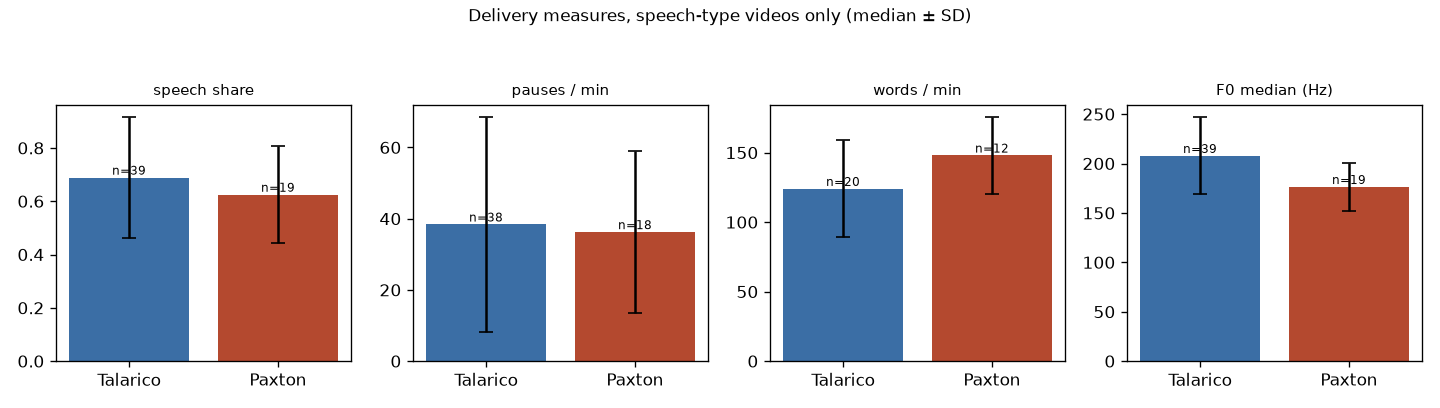
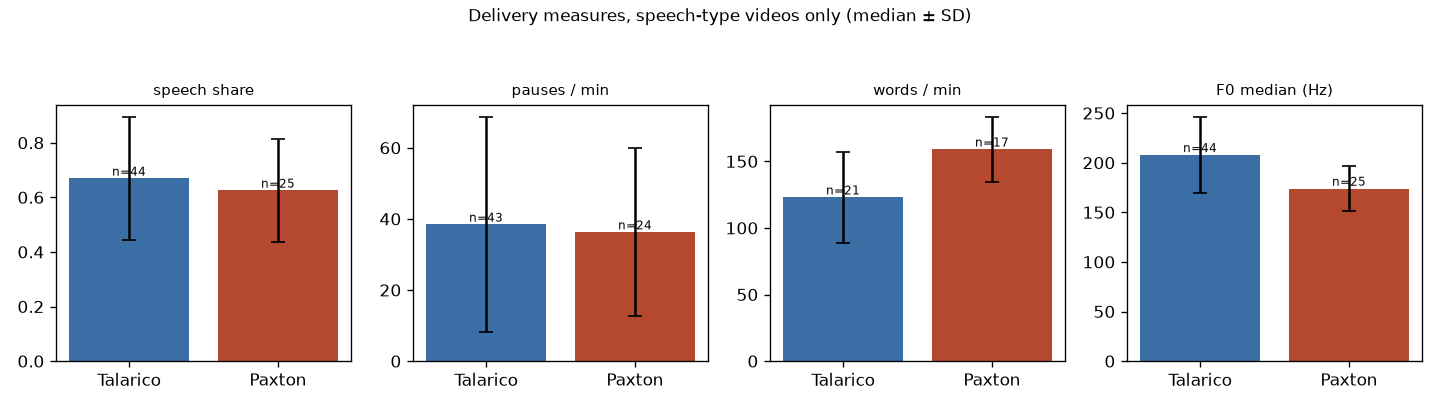
Unify speech-delivery comparison set and fix audio-page title lookup
Candidate medians now use every speech-type kind (44 Talarico / 25 Paxton rows), so the 11_speech_audio README, the site table and the three analysis files quote the same numbers. Rhetoric counters are restricted to captioned speeches (uncaptioned rows carried zeros and dragged the medians to 0).

diff --git a/texas-senate-2026/site/audio/index.html b/texas-senate-2026/site/audio/index.html
@@ -113,7 +113,7 @@ a.ext::after{content:" ↗";font-size:.8em;opacity:.65}
   <main>
     <div class="crumb"><a href="../index.html">首页</a> › <a href="../audio/index.html">音频</a></div>
     <h1>Speech audio &amp; delivery<span class="zh">演讲音频与交付分析</span></h1>
-    <div class="hero"><p>把 145 段视频的音轨全部抽出来测量：说话占比、停顿结构、响度动态、基频与语速。它的用途是让「交付方式」从 <code>unknown</code> 变成有数的记录，<b>而不是</b>给两位候选人的「气质」下判断。</p></div><div class="stats"><div class="stat"><b>145</b><span>已测量视频</span></div><div class="stat"><b>94</b><span>演讲类视频</span></div><div class="stat"><b>37.2</b><span>演讲音频小时</span></div><div class="stat"><b>78</b><span>逐字稿</span></div><div class="stat"><b>2542</b><span>60 秒分段</span></div></div><h2>候选人间（仅演讲类，中位数）</h2><div class="table-wrap"><table><thead><tr><th>指标</th><th>塔拉里科</th><th>帕克斯顿</th></tr></thead><tbody><tr><td>说话占比</td><td>0.67</td><td>0.62</td></tr><tr><td>每分钟停顿（≥0.25 s）</td><td>38.7</td><td>37.0</td></tr><tr><td>平均停顿（秒）</td><td>0.84</td><td>0.88</td></tr><tr><td>语速（词/分钟）</td><td>123</td><td>159</td></tr><tr><td>F0 中位数（Hz，指示值）</td><td>207.8</td><td>173.9</td></tr><tr><td>音域（半音）</td><td>13.5</td><td>14.0</td></tr><tr><td>响度标准差（dB）</td><td>7.4</td><td>6.9</td></tr></tbody></table></div><div class="gal"><figure><img src="../../11_speech_audio/fig_delivery_comparison.png" alt="delivery comparison"><figcaption><b>四项交付指标对比</b>中位数 ± 标准差，仅演讲类视频</figcaption></figure><figure><img src="../../11_speech_audio/fig_pacing.png" alt="pacing scatter"><figcaption><b>语速 vs 停顿率</b>气泡大小＝视频长度</figcaption></figure></div><div class="cards"><a class="card" href="data.html"><h3>交付数据集</h3><p>逐视频指标 + 60 秒分段。</p></a><a class="card" href="transcripts.html"><h3>逐字稿（78）</h3><p>带时间码的字幕文本，可回查。</p></a><a class="card" href="method.html"><h3>方法与局限</h3><p>VAD、F0、字幕口径与不可断言清单。</p></a></div><h2>最长的演讲类视频</h2><div class="table-wrap"><table><thead><tr><th>slug</th><th>kind</th><th>duration s</th><th>wpm</th><th>pauses/min</th><th>title</th></tr></thead><tbody><tr><td>TAL_austin_victory_cbs</td><td style="text-align:right">victory_speech</td><td style="text-align:right">6877</td><td style="text-align:right">44.0</td><td style="text-align:right">11.61</td><td>TAL_austin_victory_cbs</td></tr><tr><td>TAL_tx_victory_jtc</td><td style="text-align:right">victory_speech</td><td style="text-align:right">6654</td><td style="text-align:right">—</td><td style="text-align:right">67.0</td><td>TAL_tx_victory_jtc</td></tr><tr><td>TAL_austin_rally_cbs</td><td style="text-align:right">rally_speech</td><td style="text-align:right">6023</td><td style="text-align:right">103.0</td><td style="text-align:right">38.38</td><td>TAL_austin_rally_cbs</td></tr><tr><td>TAL_tx_rally_jtc2</td><td style="text-align:right">rally_speech</td><td style="text-align:right">5807</td><td style="text-align:right">189.0</td><td style="text-align:right">30.98</td><td>TAL_tx_rally_jtc2</td></tr><tr><td>TAL_tx_townhall_cnn</td><td style="text-align:right">town_hall</td><td style="text-align:right">4998</td><td style="text-align:right">—</td><td style="text-align:right">27.21</td><td>TAL_tx_townhall_cnn</td></tr><tr><td>TAL_fort_worth_rally_fox4</td><td style="text-align:right">rally_speech</td><td style="text-align:right">4903</td><td style="text-align:right">—</td><td style="text-align:right">77.08</td><td>TAL_fort_worth_rally_fox4</td></tr><tr><td>TAL_houston_rally_fox26</td><td style="text-align:right">rally_speech</td><td style="text-align:right">4892</td><td style="text-align:right">—</td><td style="text-align:right">77.17</td><td>TAL_houston_rally_fox26</td></tr><tr><td>TAL_dallas_rally_web</td><td style="text-align:right">rally_speech</td><td style="text-align:right">4887</td><td style="text-align:right">—</td><td style="text-align:right">76.75</td><td>TAL_dallas_rally_web</td></tr><tr><td>TAL_tyler_tour_cbs19</td><td style="text-align:right">tour_launch</td><td style="text-align:right">4176</td><td style="text-align:right">120.0</td><td style="text-align:right">27.34</td><td>TAL_tyler_tour_cbs19</td></tr><tr><td>TAL_san_marcos_rally_web</td><td style="text-align:right">rally_speech</td><td style="text-align:right">3800</td><td style="text-align:right">—</td><td style="text-align:right">56.93</td><td>TAL_san_marcos_rally_web</td></tr><tr><td>TAL_el_paso_tour_web2</td><td style="text-align:right">tour_launch</td><td style="text-align:right">3796</td><td style="text-align:right">—</td><td style="text-align:right">85.85</td><td>TAL_el_paso_tour_web2</td></tr><tr><td>TAL_fort_worth_rally_fox42</td><td style="text-align:right">rally_speech</td><td style="text-align:right">3795</td><td style="text-align:right">—</td><td style="text-align:right">56.46</td><td>TAL_fort_worth_rally_fox42</td></tr><tr><td>TAL_san_marcos_rally_fox26</td><td style="text-align:right">rally_speech</td><td style="text-align:right">3795</td><td style="text-align:right">—</td><td style="text-align:right">56.6</td><td>TAL_san_marcos_rally_fox26</td></tr><tr><td>TAL_tx_townhall_cnn2</td><td style="text-align:right">town_hall</td><td style="text-align:right">3428</td><td style="text-align:right">—</td><td style="text-align:right">37.41</td><td>TAL_tx_townhall_cnn2</td></tr></tbody></table></div><h2>波形与基频轨迹（前 24 段）</h2><div class="gal"><figure><a href="../../11_speech_audio/plots/BOTH_el_paso_rally_web.png" target="_blank"><img src="../../11_speech_audio/plots/BOTH_el_paso_rally_web.png" alt="BOTH_el_paso_rally_web" loading="lazy"></a><figcaption><b>BOTH_el_paso_rally_web</b></figcaption></figure><figure><a href="../../11_speech_audio/plots/BOTH_fort_worth_rally_fox4.png" target="_blank"><img src="../../11_speech_audio/plots/BOTH_fort_worth_rally_fox4.png" alt="BOTH_fort_worth_rally_fox4" loading="lazy"></a><figcaption><b>BOTH_fort_worth_rally_fox4</b></figcaption></figure><figure><a href="../../11_speech_audio/plots/BOTH_houston_rally_fox26.png" target="_blank"><img src="../../11_speech_audio/plots/BOTH_houston_rally_fox26.png" alt="BOTH_houston_rally_fox26" loading="lazy"></a><figcaption><b>BOTH_houston_rally_fox26</b></figcaption></figure><figure><a href="../../11_speech_audio/plots/BOTH_san_antonio_convention_kens.png" target="_blank"><img src="../../11_speech_audio/plots/BOTH_san_antonio_convention_kens.png" alt="BOTH_san_antonio_convention_kens" loading="lazy"></a><figcaption><b>BOTH_san_antonio_convention_kens</b></figcaption></figure><figure><a href="../../11_speech_audio/plots/BOTH_tx_concession_cbs19.png" target="_blank"><img src="../../11_speech_audio/plots/BOTH_tx_concession_cbs19.png" alt="BOTH_tx_concession_cbs19" loading="lazy"></a><figcaption><b>BOTH_tx_concession_cbs19</b></figcaption></figure><figure><a href="../../11_speech_audio/plots/BOTH_tx_concession_kvue.png" target="_blank"><img src="../../11_speech_audio/plots/BOTH_tx_concession_kvue.png" alt="BOTH_tx_concession_kvue" loading="lazy"></a><figcaption><b>BOTH_tx_concession_kvue</b></figcaption></figure><figure><a href="../../11_speech_audio/plots/BOTH_tx_concession_web.png" target="_blank"><img src="../../11_speech_audio/plots/BOTH_tx_concession_web.png" alt="BOTH_tx_concession_web" loading="lazy"></a><figcaption><b>BOTH_tx_concession_web</b></figcaption></figure><figure><a href="../../11_speech_audio/plots/BOTH_tx_concession_web2.png" target="_blank"><img src="../../11_speech_audio/plots/BOTH_tx_concession_web2.png" alt="BOTH_tx_concession_web2" loading="lazy"></a><figcaption><b>BOTH_tx_concession_web2</b></figcaption></figure><figure><a href="../../11_speech_audio/plots/BOTH_tx_concession_web3.png" target="_blank"><img src="../../11_speech_audio/plots/BOTH_tx_concession_web3.png" alt="BOTH_tx_concession_web3" loading="lazy"></a><figcaption><b>BOTH_tx_concession_web3</b></figcaption></figure><figure><a href="../../11_speech_audio/plots/BOTH_tx_convention_usat.png" target="_blank"><img src="../../11_speech_audio/plots/BOTH_tx_convention_usat.png" alt="BOTH_tx_convention_usat" loading="lazy"></a><figcaption><b>BOTH_tx_convention_usat</b></figcaption></figure><figure><a href="../../11_speech_audio/plots/BOTH_tx_debate_cbs192.png" target="_blank"><img src="../../11_speech_audio/plots/BOTH_tx_debate_cbs192.png" alt="BOTH_tx_debate_cbs192" loading="lazy"></a><figcaption><b>BOTH_tx_debate_cbs192</b></figcaption></figure><figure><a href="../../11_speech_audio/plots/BOTH_tx_debate_cbs193.png" target="_blank"><img src="../../11_speech_audio/plots/BOTH_tx_debate_cbs193.png" alt="BOTH_tx_debate_cbs193" loading="lazy"></a><figcaption><b>BOTH_tx_debate_cbs193</b></figcaption></figure><figure><a href="../../11_speech_audio/plots/BOTH_tx_debate_web.png" target="_blank"><img src="../../11_speech_audio/plots/BOTH_tx_debate_web.png" alt="BOTH_tx_debate_web" loading="lazy"></a><figcaption><b>BOTH_tx_debate_web</b></figcaption></figure><figure><a href="../../11_speech_audio/plots/BOTH_tx_final_wfaa.png" target="_blank"><img src="../../11_speech_audio/plots/BOTH_tx_final_wfaa.png" alt="BOTH_tx_final_wfaa" loading="lazy"></a><figcaption><b>BOTH_tx_final_wfaa</b></figcaption></figure><figure><a href="../../11_speech_audio/plots/BOTH_tx_interview_cbs.png" target="_blank"><img src="../../11_speech_audio/plots/BOTH_tx_interview_cbs.png" alt="BOTH_tx_interview_cbs" loading="lazy"></a><figcaption><b>BOTH_tx_interview_cbs</b></figcaption></figure><figure><a href="../../11_speech_audio/plots/BOTH_tx_interview_cbs2.png" target="_blank"><img src="../../11_speech_audio/plots/BOTH_tx_interview_cbs2.png" alt="BOTH_tx_interview_cbs2" loading="lazy"></a><figcaption><b>BOTH_tx_interview_cbs2</b></figcaption></figure><figure><a href="../../11_speech_audio/plots/BOTH_tx_interview_web.png" target="_blank"><img src="../../11_speech_audio/plots/BOTH_tx_interview_web.png" alt="BOTH_tx_interview_web" loading="lazy"></a><figcaption><b>BOTH_tx_interview_web</b></figcaption></figure><figure><a href="../../11_speech_audio/plots/BOTH_tx_interview_web2.png" target="_blank"><img src="../../11_speech_audio/plots/BOTH_tx_interview_web2.png" alt="BOTH_tx_interview_web2" loading="lazy"></a><figcaption><b>BOTH_tx_interview_web2</b></figcaption></figure><figure><a href="../../11_speech_audio/plots/BOTH_tx_interview_web3.png" target="_blank"><img src="../../11_speech_audio/plots/BOTH_tx_interview_web3.png" alt="BOTH_tx_interview_web3" loading="lazy"></a><figcaption><b>BOTH_tx_interview_web3</b></figcaption></figure><figure><a href="../../11_speech_audio/plots/BOTH_tx_rally_cbs19.png" target="_blank"><img src="../../11_speech_audio/plots/BOTH_tx_rally_cbs19.png" alt="BOTH_tx_rally_cbs19" loading="lazy"></a><figcaption><b>BOTH_tx_rally_cbs19</b></figcaption></figure><figure><a href="../../11_speech_audio/plots/BOTH_tx_rally_foxn.png" target="_blank"><img src="../../11_speech_audio/plots/BOTH_tx_rally_foxn.png" alt="BOTH_tx_rally_foxn" loading="lazy"></a><figcaption><b>BOTH_tx_rally_foxn</b></figcaption></figure><figure><a href="../../11_speech_audio/plots/BOTH_tx_rally_usat.png" target="_blank"><img src="../../11_speech_audio/plots/BOTH_tx_rally_usat.png" alt="BOTH_tx_rally_usat" loading="lazy"></a><figcaption><b>BOTH_tx_rally_usat</b></figcaption></figure><figure><a href="../../11_speech_audio/plots/BOTH_tx_rally_web.png" target="_blank"><img src="../../11_speech_audio/plots/BOTH_tx_rally_web.png" alt="BOTH_tx_rally_web" loading="lazy"></a><figcaption><b>BOTH_tx_rally_web</b></figcaption></figure><figure><a href="../../11_speech_audio/plots/BOTH_tx_rally_web2.png" target="_blank"><img src="../../11_speech_audio/plots/BOTH_tx_rally_web2.png" alt="BOTH_tx_rally_web2" loading="lazy"></a><figcaption><b>BOTH_tx_rally_web2</b></figcaption></figure></div>
+    <div class="hero"><p>把 145 段视频的音轨全部抽出来测量：说话占比、停顿结构、响度动态、基频与语速。它的用途是让「交付方式」从 <code>unknown</code> 变成有数的记录，<b>而不是</b>给两位候选人的「气质」下判断。</p></div><div class="stats"><div class="stat"><b>145</b><span>已测量视频</span></div><div class="stat"><b>94</b><span>演讲类视频</span></div><div class="stat"><b>37.2</b><span>演讲音频小时</span></div><div class="stat"><b>78</b><span>逐字稿</span></div><div class="stat"><b>2542</b><span>60 秒分段</span></div></div><h2>候选人间（仅演讲类，中位数）</h2><div class="table-wrap"><table><thead><tr><th>指标</th><th>塔拉里科</th><th>帕克斯顿</th></tr></thead><tbody><tr><td>说话占比</td><td>0.67</td><td>0.62</td></tr><tr><td>每分钟停顿（≥0.25 s）</td><td>38.7</td><td>37.0</td></tr><tr><td>平均停顿（秒）</td><td>0.84</td><td>0.88</td></tr><tr><td>语速（词/分钟）</td><td>123</td><td>159</td></tr><tr><td>F0 中位数（Hz，指示值）</td><td>207.8</td><td>173.9</td></tr><tr><td>音域（半音）</td><td>13.5</td><td>14.0</td></tr><tr><td>响度标准差（dB）</td><td>7.4</td><td>6.9</td></tr></tbody></table></div><div class="gal"><figure><img src="../../11_speech_audio/fig_delivery_comparison.png" alt="delivery comparison"><figcaption><b>四项交付指标对比</b>中位数 ± 标准差，仅演讲类视频</figcaption></figure><figure><img src="../../11_speech_audio/fig_pacing.png" alt="pacing scatter"><figcaption><b>语速 vs 停顿率</b>气泡大小＝视频长度</figcaption></figure></div><div class="cards"><a class="card" href="data.html"><h3>交付数据集</h3><p>逐视频指标 + 60 秒分段。</p></a><a class="card" href="transcripts.html"><h3>逐字稿（78）</h3><p>带时间码的字幕文本，可回查。</p></a><a class="card" href="method.html"><h3>方法与局限</h3><p>VAD、F0、字幕口径与不可断言清单。</p></a></div><h2>最长的演讲类视频</h2><div class="table-wrap"><table><thead><tr><th>slug</th><th>kind</th><th>duration s</th><th>wpm</th><th>pauses/min</th><th>title</th></tr></thead><tbody><tr><td>TAL_austin_victory_cbs</td><td style="text-align:right">victory_speech</td><td style="text-align:right">6877</td><td style="text-align:right">44.0</td><td style="text-align:right">11.61</td><td>WATCH LIVE: James Talarico speaks to supporters on election night</td></tr><tr><td>TAL_tx_victory_jtc</td><td style="text-align:right">victory_speech</td><td style="text-align:right">6654</td><td style="text-align:right">—</td><td style="text-align:right">67.0</td><td>Victory Party LIVE: James Talarico for US Senate</td></tr><tr><td>TAL_austin_rally_cbs</td><td style="text-align:right">rally_speech</td><td style="text-align:right">6023</td><td style="text-align:right">103.0</td><td style="text-align:right">38.38</td><td>WATCH: Rep. Talarico STOP ICE Rally</td></tr><tr><td>TAL_tx_rally_jtc2</td><td style="text-align:right">rally_speech</td><td style="text-align:right">5807</td><td style="text-align:right">189.0</td><td style="text-align:right">30.98</td><td>James Talarico: Here Is How They Designed The System To Keep You Poor!</td></tr><tr><td>TAL_tx_townhall_cnn</td><td style="text-align:right">town_hall</td><td style="text-align:right">4998</td><td style="text-align:right">—</td><td style="text-align:right">27.21</td><td>James Talarico Debates Texas Voters: Jubilee x CNN Townhall</td></tr><tr><td>TAL_fort_worth_rally_fox4</td><td style="text-align:right">rally_speech</td><td style="text-align:right">4903</td><td style="text-align:right">—</td><td style="text-align:right">77.08</td><td>LIVE: Talarico, Hinojosa rally in Dallas as Texas races tighten</td></tr><tr><td>TAL_houston_rally_fox26</td><td style="text-align:right">rally_speech</td><td style="text-align:right">4892</td><td style="text-align:right">—</td><td style="text-align:right">77.17</td><td>LIVE: Talarico, Hinojosa rally in Dallas as Texas races tighten</td></tr><tr><td>TAL_dallas_rally_web</td><td style="text-align:right">rally_speech</td><td style="text-align:right">4887</td><td style="text-align:right">—</td><td style="text-align:right">76.75</td><td>LIVE: Talarico, Hinojosa rally in Dallas as Texas races tighten</td></tr><tr><td>TAL_tyler_tour_cbs19</td><td style="text-align:right">tour_launch</td><td style="text-align:right">4176</td><td style="text-align:right">120.0</td><td style="text-align:right">27.34</td><td>WATCH LIVE: U.S. Senate candidate James Talarico makes campaign stop i</td></tr><tr><td>TAL_san_marcos_rally_web</td><td style="text-align:right">rally_speech</td><td style="text-align:right">3800</td><td style="text-align:right">—</td><td style="text-align:right">56.93</td><td>LIVE: James Talarico holds campaign rally in San Marcos</td></tr><tr><td>TAL_el_paso_tour_web2</td><td style="text-align:right">tour_launch</td><td style="text-align:right">3796</td><td style="text-align:right">—</td><td style="text-align:right">85.85</td><td>James Talarico "Clear Eyes Full Hears" campaign tour stop in El Paso</td></tr><tr><td>TAL_fort_worth_rally_fox42</td><td style="text-align:right">rally_speech</td><td style="text-align:right">3795</td><td style="text-align:right">—</td><td style="text-align:right">56.46</td><td>LIVE: James Talarico holds campaign rally in San Marcos</td></tr><tr><td>TAL_san_marcos_rally_fox26</td><td style="text-align:right">rally_speech</td><td style="text-align:right">3795</td><td style="text-align:right">—</td><td style="text-align:right">56.6</td><td>LIVE: James Talarico holds campaign rally in San Marcos</td></tr><tr><td>TAL_tx_townhall_cnn2</td><td style="text-align:right">town_hall</td><td style="text-align:right">3428</td><td style="text-align:right">—</td><td style="text-align:right">37.41</td><td>John Berman breaks down the CNN &amp; Jubilee Town Hall with James Talaric</td></tr></tbody></table></div><h2>波形与基频轨迹（前 24 段）</h2><div class="gal"><figure><a href="../../11_speech_audio/plots/BOTH_el_paso_rally_web.png" target="_blank"><img src="../../11_speech_audio/plots/BOTH_el_paso_rally_web.png" alt="BOTH_el_paso_rally_web" loading="lazy"></a><figcaption><b>BOTH_el_paso_rally_web</b></figcaption></figure><figure><a href="../../11_speech_audio/plots/BOTH_fort_worth_rally_fox4.png" target="_blank"><img src="../../11_speech_audio/plots/BOTH_fort_worth_rally_fox4.png" alt="BOTH_fort_worth_rally_fox4" loading="lazy"></a><figcaption><b>BOTH_fort_worth_rally_fox4</b></figcaption></figure><figure><a href="../../11_speech_audio/plots/BOTH_houston_rally_fox26.png" target="_blank"><img src="../../11_speech_audio/plots/BOTH_houston_rally_fox26.png" alt="BOTH_houston_rally_fox26" loading="lazy"></a><figcaption><b>BOTH_houston_rally_fox26</b></figcaption></figure><figure><a href="../../11_speech_audio/plots/BOTH_san_antonio_convention_kens.png" target="_blank"><img src="../../11_speech_audio/plots/BOTH_san_antonio_convention_kens.png" alt="BOTH_san_antonio_convention_kens" loading="lazy"></a><figcaption><b>BOTH_san_antonio_convention_kens</b></figcaption></figure><figure><a href="../../11_speech_audio/plots/BOTH_tx_concession_cbs19.png" target="_blank"><img src="../../11_speech_audio/plots/BOTH_tx_concession_cbs19.png" alt="BOTH_tx_concession_cbs19" loading="lazy"></a><figcaption><b>BOTH_tx_concession_cbs19</b></figcaption></figure><figure><a href="../../11_speech_audio/plots/BOTH_tx_concession_kvue.png" target="_blank"><img src="../../11_speech_audio/plots/BOTH_tx_concession_kvue.png" alt="BOTH_tx_concession_kvue" loading="lazy"></a><figcaption><b>BOTH_tx_concession_kvue</b></figcaption></figure><figure><a href="../../11_speech_audio/plots/BOTH_tx_concession_web.png" target="_blank"><img src="../../11_speech_audio/plots/BOTH_tx_concession_web.png" alt="BOTH_tx_concession_web" loading="lazy"></a><figcaption><b>BOTH_tx_concession_web</b></figcaption></figure><figure><a href="../../11_speech_audio/plots/BOTH_tx_concession_web2.png" target="_blank"><img src="../../11_speech_audio/plots/BOTH_tx_concession_web2.png" alt="BOTH_tx_concession_web2" loading="lazy"></a><figcaption><b>BOTH_tx_concession_web2</b></figcaption></figure><figure><a href="../../11_speech_audio/plots/BOTH_tx_concession_web3.png" target="_blank"><img src="../../11_speech_audio/plots/BOTH_tx_concession_web3.png" alt="BOTH_tx_concession_web3" loading="lazy"></a><figcaption><b>BOTH_tx_concession_web3</b></figcaption></figure><figure><a href="../../11_speech_audio/plots/BOTH_tx_convention_usat.png" target="_blank"><img src="../../11_speech_audio/plots/BOTH_tx_convention_usat.png" alt="BOTH_tx_convention_usat" loading="lazy"></a><figcaption><b>BOTH_tx_convention_usat</b></figcaption></figure><figure><a href="../../11_speech_audio/plots/BOTH_tx_debate_cbs192.png" target="_blank"><img src="../../11_speech_audio/plots/BOTH_tx_debate_cbs192.png" alt="BOTH_tx_debate_cbs192" loading="lazy"></a><figcaption><b>BOTH_tx_debate_cbs192</b></figcaption></figure><figure><a href="../../11_speech_audio/plots/BOTH_tx_debate_cbs193.png" target="_blank"><img src="../../11_speech_audio/plots/BOTH_tx_debate_cbs193.png" alt="BOTH_tx_debate_cbs193" loading="lazy"></a><figcaption><b>BOTH_tx_debate_cbs193</b></figcaption></figure><figure><a href="../../11_speech_audio/plots/BOTH_tx_debate_web.png" target="_blank"><img src="../../11_speech_audio/plots/BOTH_tx_debate_web.png" alt="BOTH_tx_debate_web" loading="lazy"></a><figcaption><b>BOTH_tx_debate_web</b></figcaption></figure><figure><a href="../../11_speech_audio/plots/BOTH_tx_final_wfaa.png" target="_blank"><img src="../../11_speech_audio/plots/BOTH_tx_final_wfaa.png" alt="BOTH_tx_final_wfaa" loading="lazy"></a><figcaption><b>BOTH_tx_final_wfaa</b></figcaption></figure><figure><a href="../../11_speech_audio/plots/BOTH_tx_interview_cbs.png" target="_blank"><img src="../../11_speech_audio/plots/BOTH_tx_interview_cbs.png" alt="BOTH_tx_interview_cbs" loading="lazy"></a><figcaption><b>BOTH_tx_interview_cbs</b></figcaption></figure><figure><a href="../../11_speech_audio/plots/BOTH_tx_interview_cbs2.png" target="_blank"><img src="../../11_speech_audio/plots/BOTH_tx_interview_cbs2.png" alt="BOTH_tx_interview_cbs2" loading="lazy"></a><figcaption><b>BOTH_tx_interview_cbs2</b></figcaption></figure><figure><a href="../../11_speech_audio/plots/BOTH_tx_interview_web.png" target="_blank"><img src="../../11_speech_audio/plots/BOTH_tx_interview_web.png" alt="BOTH_tx_interview_web" loading="lazy"></a><figcaption><b>BOTH_tx_interview_web</b></figcaption></figure><figure><a href="../../11_speech_audio/plots/BOTH_tx_interview_web2.png" target="_blank"><img src="../../11_speech_audio/plots/BOTH_tx_interview_web2.png" alt="BOTH_tx_interview_web2" loading="lazy"></a><figcaption><b>BOTH_tx_interview_web2</b></figcaption></figure><figure><a href="../../11_speech_audio/plots/BOTH_tx_interview_web3.png" target="_blank"><img src="../../11_speech_audio/plots/BOTH_tx_interview_web3.png" alt="BOTH_tx_interview_web3" loading="lazy"></a><figcaption><b>BOTH_tx_interview_web3</b></figcaption></figure><figure><a href="../../11_speech_audio/plots/BOTH_tx_rally_cbs19.png" target="_blank"><img src="../../11_speech_audio/plots/BOTH_tx_rally_cbs19.png" alt="BOTH_tx_rally_cbs19" loading="lazy"></a><figcaption><b>BOTH_tx_rally_cbs19</b></figcaption></figure><figure><a href="../../11_speech_audio/plots/BOTH_tx_rally_foxn.png" target="_blank"><img src="../../11_speech_audio/plots/BOTH_tx_rally_foxn.png" alt="BOTH_tx_rally_foxn" loading="lazy"></a><figcaption><b>BOTH_tx_rally_foxn</b></figcaption></figure><figure><a href="../../11_speech_audio/plots/BOTH_tx_rally_usat.png" target="_blank"><img src="../../11_speech_audio/plots/BOTH_tx_rally_usat.png" alt="BOTH_tx_rally_usat" loading="lazy"></a><figcaption><b>BOTH_tx_rally_usat</b></figcaption></figure><figure><a href="../../11_speech_audio/plots/BOTH_tx_rally_web.png" target="_blank"><img src="../../11_speech_audio/plots/BOTH_tx_rally_web.png" alt="BOTH_tx_rally_web" loading="lazy"></a><figcaption><b>BOTH_tx_rally_web</b></figcaption></figure><figure><a href="../../11_speech_audio/plots/BOTH_tx_rally_web2.png" target="_blank"><img src="../../11_speech_audio/plots/BOTH_tx_rally_web2.png" alt="BOTH_tx_rally_web2" loading="lazy"></a><figcaption><b>BOTH_tx_rally_web2</b></figcaption></figure></div>
     
   </main>
 </div>

diff --git a/texas-senate-2026/site/audio/method.html b/texas-senate-2026/site/audio/method.html
@@ -142,9 +142,9 @@ reporter narration.</p></div>
 <div class="blk mix"><div class="table-wrap"><table><thead><tr><th style="text-align:left">File</th><th style="text-align:left">Content</th></tr></thead><tbody><tr><td style="text-align:left"><code>delivery_metrics.csv</code></td><td style="text-align:left">one row per video: speech/silence, pauses, loudness, F0, centroid, caption-derived rate and rhetoric counters</td></tr><tr><td style="text-align:left"><code>speech_segments.csv</code></td><td style="text-align:left">60 s windows per video: speech ratio, loudness, F0, words, wpm — the pacing arc</td></tr><tr><td style="text-align:left"><code>transcripts/&lt;slug&gt;.txt</code></td><td style="text-align:left">caption text (English, verbatim as published)</td></tr><tr><td style="text-align:left"><code>transcripts/&lt;slug&gt;.cues.csv</code></td><td style="text-align:left">timed cues: start, end, text</td></tr><tr><td style="text-align:left"><code>audio/&lt;slug&gt;.m4a</code></td><td style="text-align:left">64 kbps mono audio copy for speech-type videos</td></tr><tr><td style="text-align:left"><code>plots/&lt;slug&gt;.png</code></td><td style="text-align:left">waveform envelope + VAD + F0 track + caption density</td></tr><tr><td style="text-align:left"><code>summary_by_candidate.json</code></td><td style="text-align:left">medians per candidate and coverage counts</td></tr><tr><td style="text-align:left"><code>fig_delivery_comparison.png</code></td><td style="text-align:left">four delivery measures, candidate vs candidate</td></tr><tr><td style="text-align:left"><code>fig_pacing.png</code></td><td style="text-align:left">words-per-minute vs pause rate per speech</td></tr></tbody></table></div></div>
 <h2 id="4-measured-delivery-测量结果">4. Measured delivery / 测量结果</h2>
 <div class="blk en"><p>Medians over speech-type videos. n is the number of videos contributing a value.</p></div>
-<div class="blk mix"><div class="table-wrap"><table><thead><tr><th style="text-align:left">Measure</th><th style="text-align:left">Talarico</th><th style="text-align:left">Paxton</th></tr></thead><tbody><tr><td style="text-align:left">speaking share of audio / 说话占比</td><td style="text-align:left">0.69 (n=39)</td><td style="text-align:left">0.62 (n=19)</td></tr><tr><td style="text-align:left">pauses ≥0.25 s per minute / 每分钟停顿</td><td style="text-align:left">38.4 (n=38)</td><td style="text-align:left">36.3 (n=18)</td></tr><tr><td style="text-align:left">words per minute / 语速</td><td style="text-align:left">124 (n=20)</td><td style="text-align:left">148 (n=12)</td></tr><tr><td style="text-align:left">median F0, Hz / 基频中位数</td><td style="text-align:left">207.8 (n=39)</td><td style="text-align:left">176.4 (n=19)</td></tr><tr><td style="text-align:left">F0 range, semitones / 音域</td><td style="text-align:left">13.3 (n=39)</td><td style="text-align:left">14.0 (n=19)</td></tr><tr><td style="text-align:left">loudness SD, dB / 音量动态</td><td style="text-align:left">7.3 (n=39)</td><td style="text-align:left">6.4 (n=19)</td></tr><tr><td style="text-align:left">mean pause, s / 平均停顿</td><td style="text-align:left">0.69 (n=39)</td><td style="text-align:left">0.88 (n=19)</td></tr></tbody></table></div></div>
+<div class="blk mix"><div class="table-wrap"><table><thead><tr><th style="text-align:left">Measure</th><th style="text-align:left">Talarico</th><th style="text-align:left">Paxton</th></tr></thead><tbody><tr><td style="text-align:left">speaking share of audio / 说话占比</td><td style="text-align:left">0.67 (n=44)</td><td style="text-align:left">0.62 (n=25)</td></tr><tr><td style="text-align:left">pauses ≥0.25 s per minute / 每分钟停顿</td><td style="text-align:left">38.4 (n=43)</td><td style="text-align:left">36.3 (n=24)</td></tr><tr><td style="text-align:left">words per minute / 语速</td><td style="text-align:left">123 (n=21)</td><td style="text-align:left">159 (n=17)</td></tr><tr><td style="text-align:left">median F0, Hz / 基频中位数</td><td style="text-align:left">207.8 (n=44)</td><td style="text-align:left">173.9 (n=25)</td></tr><tr><td style="text-align:left">F0 range, semitones / 音域</td><td style="text-align:left">13.5 (n=44)</td><td style="text-align:left">14.0 (n=25)</td></tr><tr><td style="text-align:left">loudness SD, dB / 音量动态</td><td style="text-align:left">7.4 (n=44)</td><td style="text-align:left">6.9 (n=25)</td></tr><tr><td style="text-align:left">mean pause, s / 平均停顿</td><td style="text-align:left">0.84 (n=44)</td><td style="text-align:left">0.88 (n=25)</td></tr></tbody></table></div></div>
 <div class="blk en"><p>Rhetoric counters (median per speech, caption-derived):</p></div>
-<div class="blk mix"><div class="table-wrap"><table><thead><tr><th style="text-align:left">Counter</th><th style="text-align:left">Talarico</th><th style="text-align:left">Paxton</th></tr></thead><tbody><tr><td style="text-align:left">words per speech</td><td style="text-align:left">340</td><td style="text-align:left">470</td></tr><tr><td style="text-align:left">first person I</td><td style="text-align:left">21</td><td style="text-align:left">54</td></tr><tr><td style="text-align:left">we / our / us</td><td style="text-align:left">65</td><td style="text-align:left">54</td></tr><tr><td style="text-align:left">you / your</td><td style="text-align:left">24</td><td style="text-align:left">58</td></tr><tr><td style="text-align:left">they / them / their</td><td style="text-align:left">20</td><td style="text-align:left">25</td></tr><tr><td style="text-align:left">"Texas"</td><td style="text-align:left">12</td><td style="text-align:left">24</td></tr></tbody></table></div></div>
+<div class="blk mix"><div class="table-wrap"><table><thead><tr><th style="text-align:left">Counter</th><th style="text-align:left">Talarico</th><th style="text-align:left">Paxton</th></tr></thead><tbody><tr><td style="text-align:left">words per speech</td><td style="text-align:left">2036</td><td style="text-align:left">2345</td></tr><tr><td style="text-align:left">first person I</td><td style="text-align:left">21</td><td style="text-align:left">48</td></tr><tr><td style="text-align:left">we / our / us</td><td style="text-align:left">71</td><td style="text-align:left">53</td></tr><tr><td style="text-align:left">you / your</td><td style="text-align:left">24</td><td style="text-align:left">43</td></tr><tr><td style="text-align:left">they / them / their</td><td style="text-align:left">23</td><td style="text-align:left">25</td></tr><tr><td style="text-align:left">"Texas"</td><td style="text-align:left">14</td><td style="text-align:left">22</td></tr></tbody></table></div></div>
 <h2 id="5-what-can-and-cannot-be-claimed-可以说与不可以说">5. What can and cannot be claimed / 可以说与不可以说</h2>
 <div class="blk en"><ul><li class="en"><strong>Can</strong>: speech share, pause counts, loudness dynamics, caption-based speaking rate, and <em>indicative</em> pitch ranges, each per video and per 60 s segment.</li><li class="en"><strong>Cannot</strong>: infer emotion, sincerity, confidence or "tone" from these numbers; infer audience reaction from loudness (applause contaminates the VAD); compare venues as if microphone and PA were equal — they are not. Rally audio is a <em>mix</em>, not a studio feed.</li><li class="en"><strong>Do not average across kinds.</strong> A 20 s news soundbite and a 20 min rally speech are not the same measurement; the comparison table already restricts to speech-type videos.</li></ul></div>
 <h2 id="6-reproduction-复现">6. Reproduction / 复现</h2>

diff --git a/texas-senate-2026/site/speeches/comm-talarico.html b/texas-senate-2026/site/speeches/comm-talarico.html
@@ -130,7 +130,7 @@ a.ext::after{content:" ↗";font-size:.8em;opacity:.65}
     <div class="meta"><span>状态：complete</span><span>更新：2026-11-10</span><span>编译：Agent D (speech)</span><span>源文件：<a href="../../03_speeches/communication_analysis_talarico.md">03_speeches/communication_analysis_talarico.md</a></span></div><div class="warn"><b>覆盖范围说明 / Coverage note.</b> Descriptive synthesis across 13 analysed appearances. Compiled before any audio existed; prosody claims then rested on (a) a journalist's in-person description of delivery, (b) AI-generated captions, and (c) reported audience behaviour. A later pass (11_speech_audio/) measured 145 videos, so speech share, pause rate, caption-derived wpm and indicative F0 now exist per video — the ⚠ marks below record what was unverified at compile time.</div><h1 id="communication-analysis-james-talarico詹姆斯塔拉里科-沟通风格分析">Communication analysis — James Talarico（詹姆斯·塔拉里科） / 沟通风格分析</h1>
 <div class="pair"><div class="col en"><p><strong>Scope.</strong> Observed appearances: launch (TAL-SPC-1101), Lubbock sermon and rally (1102, 1103), Colbert (1104), primary victory (1105), TribFest (1106), CNN &amp; Jubilee town hall (1107), Tyler rally (1108), MS NOW interview (1109), Midland (1110), Houston (1111), Austin finale (1112), victory speech (1113).</p></div><div class="col zh"><p><strong>范围。</strong> 已观察的出场场合：启动集会（TAL-SPC-1101）、Lubbock（拉伯克）布道与集会（1102、1103）、Colbert（科尔伯特）节目（1104）、初选胜利演讲（1105）、TribFest（《德州论坛》节，1106）、CNN 与 Jubilee 联合市民大会（1107）、Tyler（泰勒）集会（1108）、MS NOW 采访（1109）、Midland（米德兰，1110）、Houston（休斯敦，1111）、Austin（奥斯汀）收官集会（1112）、胜选演讲（1113）。</p></div></div>
 <div class="pair"><div class="col en"><p><strong>Evidence limits.</strong> The compiler did not play any video or audio. Two things are nevertheless observable with confidence: (1) TIME's correspondent described his delivery in person at the Lubbock sermon; (2) a timecoded (AI-generated) transcript exists for the MS NOW interview, which reveals sentence length, self-interruption, repetition and answer structure even where it cannot prove pitch or pace. All claims about voice quality, accent, speed and pause are marked <code>⚠</code> and must be checked against video before publication.</p></div><div class="col zh"><p><strong>证据限制。</strong> 整理者未播放任何视频或音频。不过有两点可以确信观察：（1）《TIME（时代）》周刊记者在 Lubbock 布道现场描述过他的表达方式；（2）MS NOW 采访存在一份带时间码的（AI 生成）转录稿，即便它无法证明音高或语速，却能显示句长、自我打断、重复与答问结构。所有关于音质、口音、语速与停顿的判断均标注 <code>⚠</code>，发表前必须对照视频核实。</p></div></div>
-<div class="blk zh"><p><strong>后续测量（补充）。</strong> 此后 <code>11_speech_audio/</code> 对 145 段视频（含本节所列出场）抽取音轨并测量：说话占比、每分钟停顿、由字幕推算的语速、以及仅作指示的基频中位数，均按视频成表。演讲类中位数为说话占比 0.69、每分钟停顿 38.4 次、语速 124 词/分、基频 207.8 Hz。这些数值来自集会与采访的混音，<strong>不能</strong>用来判断情绪、真诚度或观众反应；下文 <code>⚠</code> 标记保留，用以记录撰写时尚无法核实的部分。</p></div>
+<div class="blk zh"><p><strong>后续测量（补充）。</strong> 此后 <code>11_speech_audio/</code> 对 145 段视频（含本节所列出场）抽取音轨并测量：说话占比、每分钟停顿、由字幕推算的语速、以及仅作指示的基频中位数，均按视频成表。演讲类中位数为说话占比 0.67、每分钟停顿 38.4 次、语速 123 词/分、基频 207.8 Hz。这些数值来自集会与采访的混音，<strong>不能</strong>用来判断情绪、真诚度或观众反应；下文 <code>⚠</code> 标记保留，用以记录撰写时尚无法核实的部分。</p></div>
 <h2 id="1-voice-characteristics-音质特征">1. Voice characteristics / 音质特征</h2>
 <div class="pair"><div class="col en"><p>No retrieved source describes timbre, pitch or resonance. <code>⚠ unknown</code> — cannot be characterised from evidence. What <em>is</em> documented is a delivery style described by TIME as "a deliberate pace and with a practiced cadence" in the sermon setting (<a class="src" href="https://www.yerepouni-news.com/she-cant-win-he-can-inside-james-talaricos-faith-based-bid-to-flip-texas/" target="_blank" rel="noopener" title="Time (Philip Elliott) reprint">SRC-0052</a>). 「Practiced」 is TIME's word, and it implies rehearsal — relevant because the same cadence appears in rally settings where the register is different.</p></div><div class="col zh"><p>现有检索来源均未描述音色、音高或共鸣。<code>⚠ unknown</code>（未查明）—— 无法依据证据作出描述。有据可查的是《TIME》对布道场合表达风格的描述："a deliberate pace and with a practiced cadence"（译：「从容的节奏、经过练习的语调」）（<a class="src" href="https://www.yerepouni-news.com/she-cant-win-he-can-inside-james-talaricos-faith-based-bid-to-flip-texas/" target="_blank" rel="noopener" title="Time (Philip Elliott) reprint">SRC-0052</a>）。「practiced（经过练习）」是《TIME》的用词，暗示曾反复排练——这一点相关，因为在语域不同的集会场合也出现同样的语调。</p></div></div>
 <h2 id="2-speech-speed-and-pauses-语速与停顿">2. Speech speed and pauses / 语速与停顿</h2>

diff --git a/texas-senate-2026/site/speeches/comm-paxton.html b/texas-senate-2026/site/speeches/comm-paxton.html
@@ -131,7 +131,7 @@ a.ext::after{content:" ↗";font-size:.8em;opacity:.65}
     <div class="meta"><span>状态：complete</span><span>更新：2026-11-10</span><span>编译：Agent D (speech)</span><span>源文件：<a href="../../03_speeches/communication_analysis_paxton.md">03_speeches/communication_analysis_paxton.md</a></span></div><div class="warn"><b>覆盖范围说明 / Coverage note.</b> Descriptive synthesis across 11 analysed appearances. Compiled before any audio existed; no in-person delivery description comparable to TIME's Talarico piece was retrieved, so prosody dimensions were then unknown. A later pass (11_speech_audio/) measured 145 videos, so speech share, pause rate, caption-derived wpm and indicative F0 now exist per video — the ⚠ marks below record what was unverified at compile time.</div><h1 id="communication-analysis-ken-paxton肯帕克斯顿-沟通风格分析">Communication analysis — Ken Paxton（肯·帕克斯顿） / 沟通风格分析</h1>
 <div class="pair"><div class="col en"><p><strong>Scope.</strong> Observed appearances: launch on Fox News (PAX-SPC-1101), tour announcement (1102), Rockwall (1103), Brownsville/McAllen (1104), Laredo (1105), Houston (1106), Tyler (1107), Allen (1108), runoff victory (1109), Fox News Sunday Briefing interview (1110), concession (1111).</p></div><div class="col zh"><p><strong>范围。</strong> 已观察的出场场合：Fox News（福克斯新闻）上的启动宣布（PAX-SPC-1101）、巡游宣布（1102）、Rockwall（罗克沃尔，1103）、Brownsville／McAllen（布朗斯维尔／麦卡伦，1104）、Laredo（拉雷多，1105）、Houston（休斯敦，1106）、Tyler（泰勒，1107）、Allen（艾伦，1108）、决选胜利（1109）、Fox News《Sunday Briefing》采访（1110）、承认败选演讲（1111）。</p></div></div>
 <div class="pair"><div class="col en"><p><strong>Evidence limits.</strong> The compiler did not play any video or audio. No retrieved source describes Paxton's voice, pace, accent or pausing, and no transcript exists for any Paxton appearance in this archive. The dimensions below are therefore built from syntax and vocabulary in printed quotations, from staging and audience descriptions in reporting, and from the structure of the campaign's communication choices. All prosody claims are marked <code>⚠</code>.</p></div><div class="col zh"><p><strong>证据限制。</strong> 整理者未播放任何视频或音频。无任何检索来源描述 Paxton 的嗓音、语速、口音或停顿，本档案中也没有任何 Paxton 出场场合的转录稿。因此以下各维度建立在印刷引语的句法与用词、报道中的舞台与听众描述，以及竞选传播选择的结构之上。所有韵律类判断均标注 <code>⚠</code>。</p></div></div>
-<div class="blk zh"><p><strong>后续测量（补充）。</strong> 此后 <code>11_speech_audio/</code> 对 145 段视频抽取音轨并测量；Paxton 侧有 19 段演讲类视频进入统计。演讲类中位数为说话占比 0.62、每分钟停顿 36.3 次、语速 148 词/分、基频 176.4 Hz。集会音频含音乐、掌声与扩声，因此音高、响度只作指示值，<strong>不能</strong>据此判断情绪、真诚度或观众反应；下文 <code>⚠</code> 标记保留，用以记录撰写时尚无法核实的部分。另有 21 段帕克斯顿专属视频（外加 30 段双人视频）配有英文字幕，可在 <code>11_speech_audio/transcripts/</code> 中回查原话。</p></div>
+<div class="blk zh"><p><strong>后续测量（补充）。</strong> 此后 <code>11_speech_audio/</code> 对 145 段视频抽取音轨并测量；Paxton 侧有 25 段演讲类视频进入统计。演讲类中位数为说话占比 0.62、每分钟停顿 36.3 次、语速 159 词/分、基频 173.9 Hz。集会音频含音乐、掌声与扩声，因此音高、响度只作指示值，<strong>不能</strong>据此判断情绪、真诚度或观众反应；下文 <code>⚠</code> 标记保留，用以记录撰写时尚无法核实的部分。另有 21 段帕克斯顿专属视频（外加 30 段双人视频）配有英文字幕，可在 <code>11_speech_audio/transcripts/</code> 中回查原话。</p></div>
 <h2 id="1-voice-characteristics-音质特征">1. Voice characteristics / 音质特征</h2>
 <div class="pair"><div class="col en"><p><code>⚠ unknown</code> — no retrieved source characterises timbre, volume or resonance. The only delivery-adjacent observations in the corpus are behavioural, not vocal: he "didn't mince words" (Washington Examiner), and his rally appearances were staged with music and prayer rather than with a described speaking style.</p></div><div class="col zh"><p><code>⚠ unknown</code>（未查明）—— 无检索来源描述音色、音量或共鸣。语料中唯一与表达相关的观察是行为层面的，而非声音层面的：他 "didn't mince words"（译：「说话不留情面」）（《Washington Examiner（华盛顿检查者报）》），且其集会以音乐与祈祷作为舞台设计，而非以某种被描述过的演说风格为特征。</p></div></div>
 <h2 id="2-speech-speed-and-pauses-语速与停顿">2. Speech speed and pauses / 语速与停顿</h2>

diff --git a/texas-senate-2026/_staging/vision/gen_audio_readme.py b/texas-senate-2026/_staging/vision/gen_audio_readme.py
@@ -26,8 +26,9 @@ VISION = ROOT / "_staging" / "vision"
 
 SPEECH_KINDS = {"rally_speech", "victory_speech", "concession_speech", "convention_speech",
                 "town_hall", "interview", "final_rally", "tour_launch"}
-PAIR_KINDS = {"rally_speech", "victory_speech", "concession_speech", "convention_speech",
-              "town_hall", "interview"}
+# The candidate comparison uses every speech-type kind (same set as SPEECH_KINDS), so the
+# numbers quoted in the README, the site and the analysis files cannot drift apart.
+PAIR_KINDS = SPEECH_KINDS
 
 
 def rows(p):
@@ -85,8 +86,11 @@ def main():
             v, n = med(rs, k)
             d["metric_median"][k] = None if not np.isfinite(v) else round(v, nd)
             d["metric_median"][k + "_n"] = n
+        # Rhetoric counters only exist where captions exist; rows without captions carry
+        # zeros, which would drag every median toward 0. Restrict to captured speeches.
+        rs_cap = [r for r in rs if num(r, "words") > 0]
         for k in ("pron_i", "pron_we", "pron_you", "pron_they", "mentions_texas", "words"):
-            v, n = med(rs, k)
+            v, n = med(rs_cap, k)
             d["metric_median"][k] = None if not np.isfinite(v) else round(v, 0)
         summary["candidates"][name] = d
     (DEST / "summary_by_candidate.json").write_text(

diff --git a/texas-senate-2026/_staging/_lead_build_site.py b/texas-senate-2026/_staging/_lead_build_site.py
@@ -1167,7 +1167,7 @@ def main():
         if os.path.exists(vsf):
             with open(vsf, newline="", encoding="utf-8-sig") as fh:
                 for vr in csv.DictReader(fh):
-                    tmap[vr.get("slug", "")] = vr.get("source_title", "")
+                    tmap[vr.get("slug", "")] = vr.get("title", "")
         top = sorted(sp, key=lambda r: -(g(r, "video_duration_s") or 0))[:14]
         tr_rows = "".join(
             '<tr><td>%s</td><td style="text-align:right">%s</td><td style="text-align:right">%s</td>'

diff --git a/texas-senate-2026/08_comparative_analysis/candidate_comparison.md b/texas-senate-2026/08_comparative_analysis/candidate_comparison.md
@@ -110,13 +110,13 @@ Evidence: `03_speeches/communication_analysis_talarico.md`,
 `03_speeches/communication_analysis_paxton.md`. Both files were written before any
 audio existed and flag prosody (pace, pitch, pauses) as `unknown`. **That gap is now
 partly closed**: `11_speech_audio/` measures the delivery of 145 videos, including 94
-speech-type appearances. Medians over speech-type videos show Talarico at 0.69 speaking
-share / 38.4 pauses per minute / 124 wpm / 207.8 Hz median F0, Paxton at 0.62 / 36.3 /
-148 wpm / 176.4 Hz. Those are *measurements of a mix*, not a verdict on delivery: rally
+speech-type appearances. Medians over speech-type videos show Talarico at 0.67 speaking
+share / 38.4 pauses per minute / 123 wpm / 207.8 Hz median F0, Paxton at 0.62 / 36.3 /
+159 wpm / 173.9 Hz. Those are *measurements of a mix*, not a verdict on delivery: rally
 audio carries music, applause and PA, so pitch and loudness are indicative only, and
 nothing here supports claims about emotion, sincerity or audience reaction.
 
-证据：`03_speeches/communication_analysis_talarico.md`、`03_speeches/communication_analysis_paxton.md`。两份文件撰写时尚无任何音频，因此把韵律（语速、音高、停顿）标注为 `unknown`。**该缺口现已部分补上**：`11_speech_audio/` 测量了 145 段视频的交付特征，其中 94 段属演讲类出场。演讲类中位数显示：塔拉里科说话占比 0.69、每分钟停顿 38.4 次、语速 124 词/分、基频中位数 207.8 Hz；帕克斯顿为 0.62、36.3、148 词/分、176.4 Hz。这些是**对混音的测量**，不是对交付方式的评判：集会音频含音乐、掌声与扩声，音高与响度仅为指示值，也不能据此推断情绪、真诚度或观众反应。
+证据：`03_speeches/communication_analysis_talarico.md`、`03_speeches/communication_analysis_paxton.md`。两份文件撰写时尚无任何音频，因此把韵律（语速、音高、停顿）标注为 `unknown`。**该缺口现已部分补上**：`11_speech_audio/` 测量了 145 段视频的交付特征，其中 94 段属演讲类出场。演讲类中位数显示：塔拉里科说话占比 0.67、每分钟停顿 38.4 次、语速 123 词/分、基频中位数 207.8 Hz；帕克斯顿为 0.62、36.3、159 词/分、173.9 Hz。这些是**对混音的测量**，不是对交付方式的评判：集会音频含音乐、掌声与扩声，音高与响度仅为指示值，也不能据此推断情绪、真诚度或观众反应。
 
 ## 5. Policy and issue coverage by dimension / 5. 按维度统计的政策与议题覆盖
 

diff --git a/texas-senate-2026/03_speeches/communication_analysis_paxton.md b/texas-senate-2026/03_speeches/communication_analysis_paxton.md
@@ -19,7 +19,7 @@ coverage_note: "Descriptive synthesis across 11 analysed appearances. Compiled b
 
 **证据限制。** 整理者未播放任何视频或音频。无任何检索来源描述 Paxton 的嗓音、语速、口音或停顿，本档案中也没有任何 Paxton 出场场合的转录稿。因此以下各维度建立在印刷引语的句法与用词、报道中的舞台与听众描述，以及竞选传播选择的结构之上。所有韵律类判断均标注 `⚠`。
 
-**后续测量（补充）。** 此后 `11_speech_audio/` 对 145 段视频抽取音轨并测量；Paxton 侧有 19 段演讲类视频进入统计。演讲类中位数为说话占比 0.62、每分钟停顿 36.3 次、语速 148 词/分、基频 176.4 Hz。集会音频含音乐、掌声与扩声，因此音高、响度只作指示值，**不能**据此判断情绪、真诚度或观众反应；下文 `⚠` 标记保留，用以记录撰写时尚无法核实的部分。另有 21 段帕克斯顿专属视频（外加 30 段双人视频）配有英文字幕，可在 `11_speech_audio/transcripts/` 中回查原话。
+**后续测量（补充）。** 此后 `11_speech_audio/` 对 145 段视频抽取音轨并测量；Paxton 侧有 25 段演讲类视频进入统计。演讲类中位数为说话占比 0.62、每分钟停顿 36.3 次、语速 159 词/分、基频 173.9 Hz。集会音频含音乐、掌声与扩声，因此音高、响度只作指示值，**不能**据此判断情绪、真诚度或观众反应；下文 `⚠` 标记保留，用以记录撰写时尚无法核实的部分。另有 21 段帕克斯顿专属视频（外加 30 段双人视频）配有英文字幕，可在 `11_speech_audio/transcripts/` 中回查原话。
 
 ## 1. Voice characteristics / 音质特征
 

diff --git a/texas-senate-2026/03_speeches/communication_analysis_talarico.md b/texas-senate-2026/03_speeches/communication_analysis_talarico.md
@@ -19,7 +19,7 @@ coverage_note: "Descriptive synthesis across 13 analysed appearances. Compiled b
 
 **证据限制。** 整理者未播放任何视频或音频。不过有两点可以确信观察：（1）《TIME（时代）》周刊记者在 Lubbock 布道现场描述过他的表达方式；（2）MS NOW 采访存在一份带时间码的（AI 生成）转录稿，即便它无法证明音高或语速，却能显示句长、自我打断、重复与答问结构。所有关于音质、口音、语速与停顿的判断均标注 `⚠`，发表前必须对照视频核实。
 
-**后续测量（补充）。** 此后 `11_speech_audio/` 对 145 段视频（含本节所列出场）抽取音轨并测量：说话占比、每分钟停顿、由字幕推算的语速、以及仅作指示的基频中位数，均按视频成表。演讲类中位数为说话占比 0.69、每分钟停顿 38.4 次、语速 124 词/分、基频 207.8 Hz。这些数值来自集会与采访的混音，**不能**用来判断情绪、真诚度或观众反应；下文 `⚠` 标记保留，用以记录撰写时尚无法核实的部分。
+**后续测量（补充）。** 此后 `11_speech_audio/` 对 145 段视频（含本节所列出场）抽取音轨并测量：说话占比、每分钟停顿、由字幕推算的语速、以及仅作指示的基频中位数，均按视频成表。演讲类中位数为说话占比 0.67、每分钟停顿 38.4 次、语速 123 词/分、基频 207.8 Hz。这些数值来自集会与采访的混音，**不能**用来判断情绪、真诚度或观众反应；下文 `⚠` 标记保留，用以记录撰写时尚无法核实的部分。
 
 ## 1. Voice characteristics / 音质特征
 

diff --git a/texas-senate-2026/11_speech_audio/README.md b/texas-senate-2026/11_speech_audio/README.md
@@ -71,24 +71,24 @@ Medians over speech-type videos. n is the number of videos contributing a value.
 
 | Measure | Talarico | Paxton |
 |---|---|---|
-| speaking share of audio / 说话占比 | 0.69 (n=39) | 0.62 (n=19) |
-| pauses ≥0.25 s per minute / 每分钟停顿 | 38.4 (n=38) | 36.3 (n=18) |
-| words per minute / 语速 | 124 (n=20) | 148 (n=12) |
-| median F0, Hz / 基频中位数 | 207.8 (n=39) | 176.4 (n=19) |
-| F0 range, semitones / 音域 | 13.3 (n=39) | 14.0 (n=19) |
-| loudness SD, dB / 音量动态 | 7.3 (n=39) | 6.4 (n=19) |
-| mean pause, s / 平均停顿 | 0.69 (n=39) | 0.88 (n=19) |
+| speaking share of audio / 说话占比 | 0.67 (n=44) | 0.62 (n=25) |
+| pauses ≥0.25 s per minute / 每分钟停顿 | 38.4 (n=43) | 36.3 (n=24) |
+| words per minute / 语速 | 123 (n=21) | 159 (n=17) |
+| median F0, Hz / 基频中位数 | 207.8 (n=44) | 173.9 (n=25) |
+| F0 range, semitones / 音域 | 13.5 (n=44) | 14.0 (n=25) |
+| loudness SD, dB / 音量动态 | 7.4 (n=44) | 6.9 (n=25) |
+| mean pause, s / 平均停顿 | 0.84 (n=44) | 0.88 (n=25) |
 
 Rhetoric counters (median per speech, caption-derived):
 
 | Counter | Talarico | Paxton |
 |---|---|---|
-| words per speech | 340 | 470 |
-| first person I | 21 | 54 |
-| we / our / us | 65 | 54 |
-| you / your | 24 | 58 |
-| they / them / their | 20 | 25 |
-| "Texas" | 12 | 24 |
+| words per speech | 2036 | 2345 |
+| first person I | 21 | 48 |
+| we / our / us | 71 | 53 |
+| you / your | 24 | 43 |
+| they / them / their | 23 | 25 |
+| "Texas" | 14 | 22 |
 
 ## 5. What can and cannot be claimed / 可以说与不可以说
 
